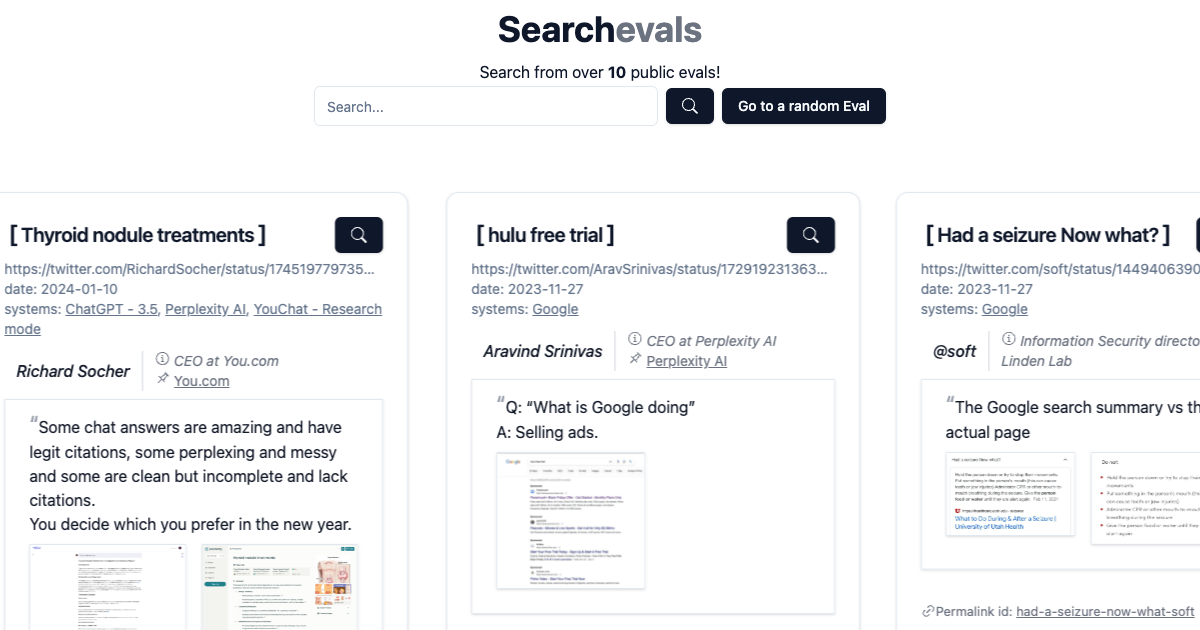
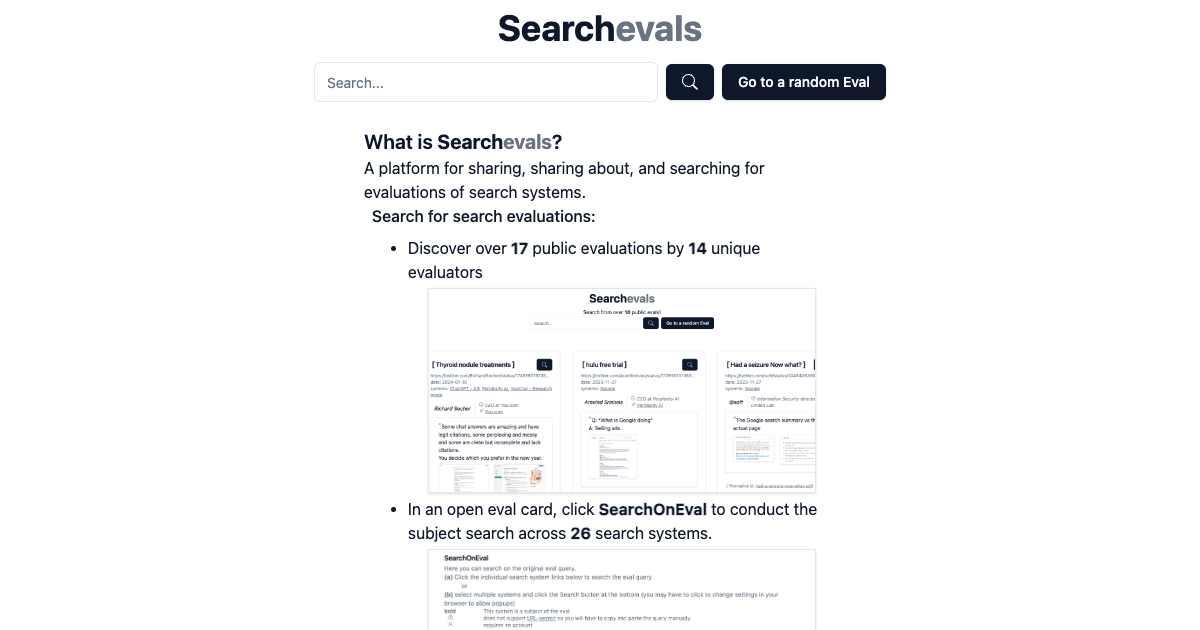
added default home screenshot for og on index.html; screenshots for new cards

diff --git a/pages/index.tsx b/pages/index.tsx
@@ -14,7 +14,7 @@ import systems from "../src/data/systems.json";
 const title = "Searchevals"
 const description = "A platform for sharing, sharing about, and searching for evaluations of search systems."
 const url = process.env.NEXT_PUBLIC_DOMAIN;
-const image = `${url}/screenshots/home.png`;
+const image = `${url}/screenshots/home_default.png`;
 
 
 

diff --git a/src/components/Footer.tsx b/src/components/Footer.tsx
@@ -2,7 +2,7 @@ import { GitHubLogoIcon, TwitterLogoIcon, LinkedInLogoIcon } from '@radix-ui/rea
 import { Button } from "./ui/button";
 import { Input } from "./ui/input";
 
-const lastUpdated = "2024-02-29T08:45:14.121Z";
+const lastUpdated = "2024-02-29T14:52:56.650Z";
 
 const Footer: React.FC = () => {
   return (

diff --git a/README.md b/README.md
@@ -17,6 +17,10 @@ This website is currently a speculative and exploratory prototype and probe. Ple
 
 
 
+# Contributing
+
+## OG images are created with `npm run screenshots`
+
 
 # Getting Started with Create React App
 
